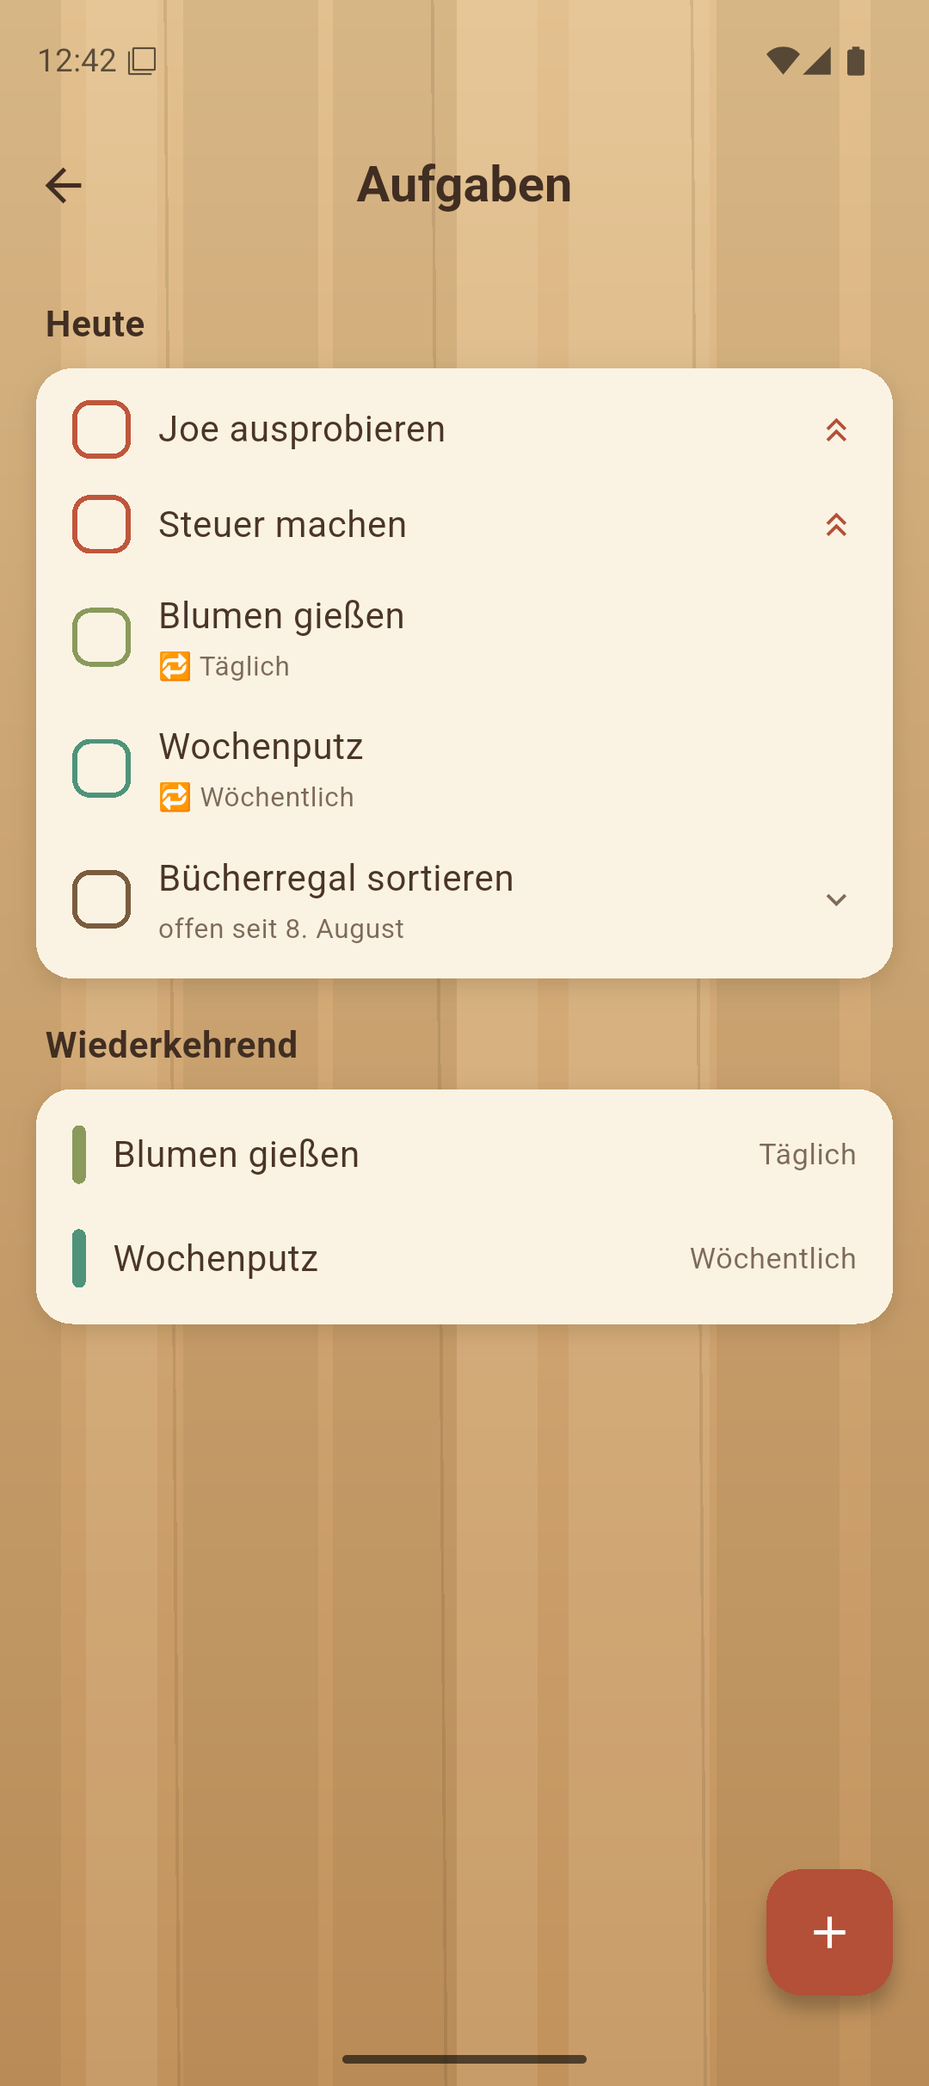
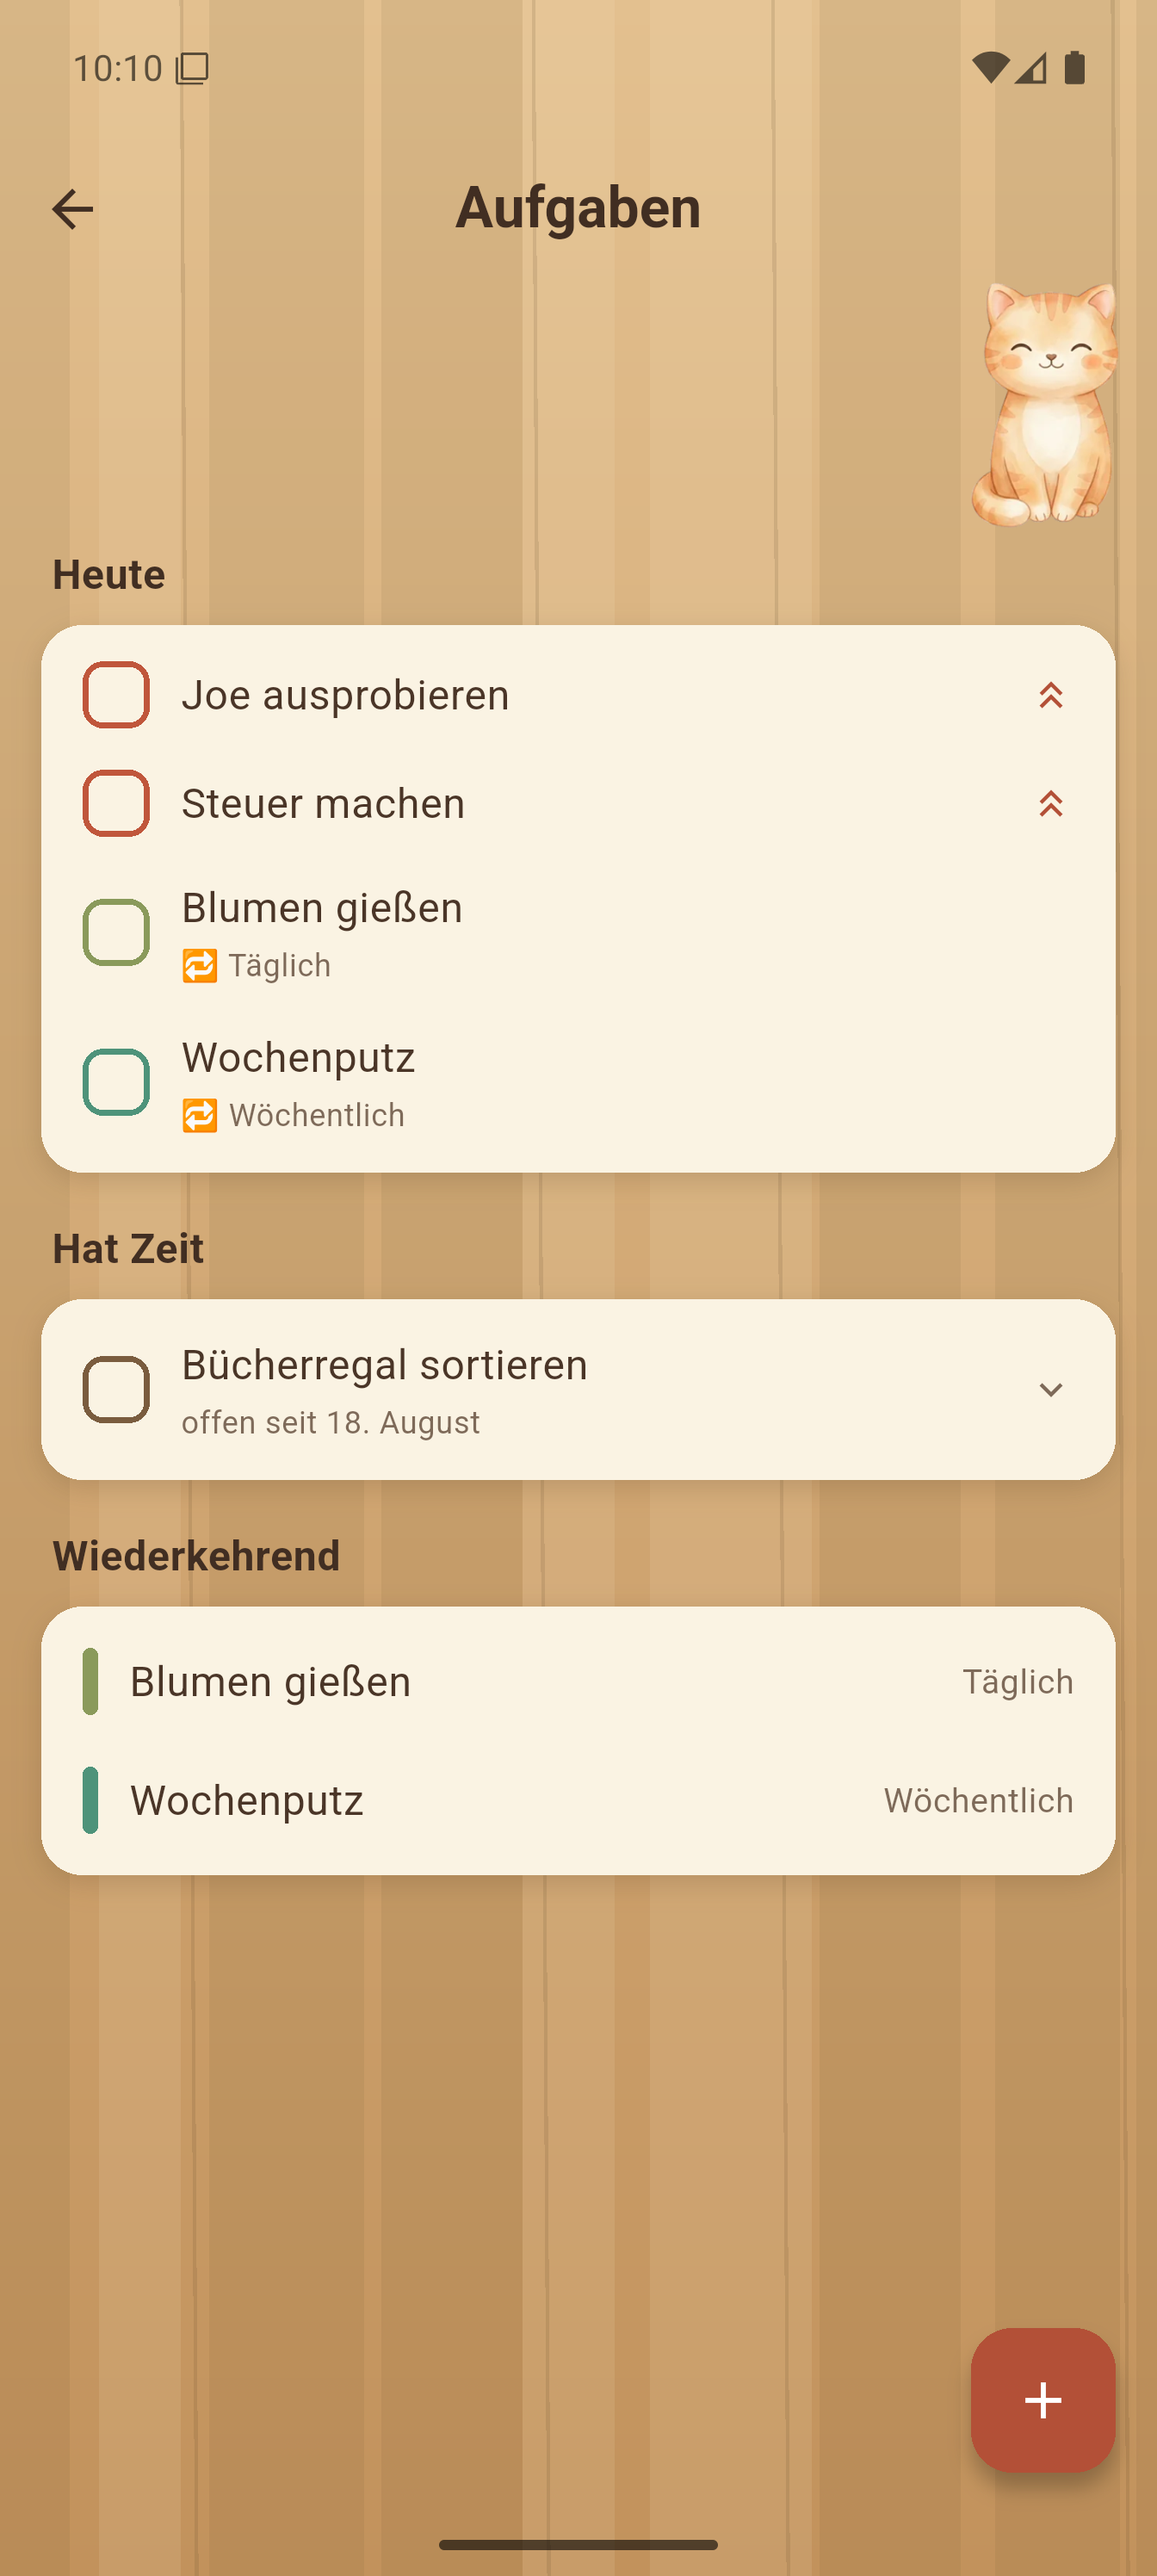
joe-todo: Stufe 3 zaehlt nur an ihrem Faelligkeitstag mit
Stufe 3 ist die leise Prioritaet. Zaehlt sie dauerhaft in "x offene Aufgaben
heute" mit, waechst die Zahl mit jedem Tag, an dem man sie liegen laesst -
und genau davor sollen die Prioritaeten schuetzen. Zaehlt sie nie mit,
verschwindet sie auch an dem Tag, an dem sie faellig ist.

Also beides: an ihrem Faelligkeitstag zaehlt sie wie jede andere Aufgabe,
danach faellt sie aus der Kopfzahl und steht nur noch im Aufklapper unter
"Hat Zeit" (vorher "Kann warten" - der Name sagte, sie duerfe warten, nicht
dass sie schon wartet). Die Grenze zieht isLowLeftover, openLowTasks heisst
darum jetzt lowLeftoverTasks.

Das Homescreen-Widget hatte die Filterung nachgebaut und zieht mit, sonst
stuende dort eine andere Zahl als in der App.

Claude-Session: https://claude.ai/code/session_01GTTHh3KS7ZpoGwavN3S3nZ

diff --git a/software/joe-todo/app/lib/models.dart b/software/joe-todo/app/lib/models.dart
@@ -47,8 +47,9 @@ const taskPaletteNames = [
 enum RecurrenceType { none, daily, weekly, monthly, everyXDays }
 
 /// Three priority levels for tasks and appointments. Level 3 ("Niedrig") is
-/// the quiet one: those tasks stay out of the open-count on the dashboard and
-/// only show up inside the fold-out list.
+/// the quiet one: an ihrem Faelligkeitstag zaehlt sie mit wie jede andere,
+/// danach faellt sie aus "x offene Aufgaben heute" heraus und steht nur noch
+/// unter "Hat Zeit" (siehe [isLowLeftover]).
 enum Priority {
   hoch(1, 'Hoch'),
   mittel(2, 'Mittel'),
@@ -203,6 +204,25 @@ class Appointment {
         reminderLeadMinutes: leadMinutesFromJson(json['reminderLeadMinutes']),
       );
 }
+
+/// Ob [task] an [day] nur noch liegen *bleibt*: Stufe 3, deren
+/// Faelligkeitstag vorbei ist.
+///
+/// Das ist die Grenze, an der sich Stufe 3 vom Rest trennt. An ihrem
+/// Faelligkeitstag ist eine leise Aufgabe eine Aufgabe wie jede andere: sie
+/// steht unter "Heute abhaken" und zaehlt in "x offene Aufgaben heute". Erst
+/// danach faellt sie aus der Zahl heraus und wandert in den Block "Hat Zeit"
+/// – sie sollte an ihrem Tag erledigt sein, muss aber nicht, und eine Zahl,
+/// die von so etwas jeden Tag weiterwaechst, sagt bald nichts mehr.
+///
+/// Nur einmalige Aufgaben koennen liegenbleiben: eine wiederkehrende ist an
+/// einem Tag entweder faellig oder gar nicht dabei.
+///
+/// Steht hier und nicht im [AppState], weil die Startbildschirm-Widgets
+/// dieselbe Grenze fuer *jeden* Tag ihres Schnappschusses brauchen, nicht
+/// nur fuer heute (siehe home_widget.dart).
+bool isLowLeftover(Task task, DateTime day) =>
+    task.priority == Priority.niedrig && !task.occursOn(day);
 
 /// Eine Erinnerungs-Uhrzeit aus dem Bestand: alles, was keine gueltige
 /// Minute im Tag ist (fehlt, falscher Typ, ausserhalb 0–1439), heisst
@@ -450,8 +470,8 @@ class AppState extends ChangeNotifier {
         colorIndex: 0,
         priority: Priority.hoch,
       ),
-      // Stufe 3: zaehlt nicht in "offene Aufgaben heute" mit und steht nur
-      // im Ausklappmenue unter "Kann warten".
+      // Stufe 3, und ihr Faelligkeitstag ist vorbei: sie zaehlt nicht mehr
+      // in "offene Aufgaben heute" mit und steht unter "Hat Zeit".
       Task(
         id: nextId(),
         title: 'Bücherregal sortieren',
@@ -605,47 +625,34 @@ class AppState extends ChangeNotifier {
   static int _soonestFirst(Task a, Task b) =>
       a.startDate.compareTo(b.startDate);
 
-  /// Tasks for the dashboard "Heute abhaken" list, without the unimportant
-  /// ones – those get their own section further down, see [openLowTasks].
-  /// Open items first, then the ones already ticked off.
+  /// Tasks for the dashboard "Heute abhaken" list, without the level-3
+  /// leftovers – those get their own block underneath, see
+  /// [lowLeftoverTasks]. Open items first, then the ones already ticked off.
   List<Task> tasksDueToday() {
     final t = today();
-    return _dueToday()
-        .where((task) => task.priority != Priority.niedrig)
-        .toList()
+    return _dueToday().where((task) => !isLowLeftover(task, t)).toList()
       ..sort(_ordered([_openFirstOn(t), _importantFirst]));
   }
 
-  /// Open level-3 tasks, newest first. Sie stehen im Aufklapper auf einem
-  /// eigenen Block, zaehlen in [openTodayCount] aber ganz normal mit.
-  List<Task> openLowTasks() {
+  /// Die liegengebliebenen Stufe-3-Aufgaben, neuste zuerst – der Block
+  /// "Hat Zeit" unter "Heute abhaken" und auf dem Aufgaben-Reiter.
+  ///
+  /// Sie sind immer offen: liegenbleiben kann nur eine einmalige Aufgabe,
+  /// die noch niemand abgehakt hat.
+  List<Task> lowLeftoverTasks() {
     final t = today();
-    return _dueToday()
-        .where((task) =>
-            task.priority == Priority.niedrig && !task.isCompletedOn(t))
-        .toList()
+    return _dueToday().where((task) => isLowLeftover(task, t)).toList()
       ..sort(_ordered([_newestFirst]));
   }
 
-  /// Was heute noch offen auf dem Teller liegt. Stufe 3 zaehlt mit: sie ist
-  /// heute genauso faellig wie der Rest, nur weiter unten einsortiert.
+  /// Was heute noch offen auf dem Teller liegt. Stufe 3 zaehlt an ihrem
+  /// Faelligkeitstag mit – da ist sie so faellig wie alles andere –, danach
+  /// nicht mehr (siehe [isLowLeftover]).
   int openTodayCount() {
     final t = today();
-    return _dueToday().where((task) => !task.isCompletedOn(t)).length;
-  }
-
-  // ---- Sections of the tasks screen ----
-
-  /// Level-3 tasks due today for the "Kann warten" block on the tasks screen.
-  /// Open first and inside that newest first, like in the dashboard fold-out.
-  /// Unlike the dashboard this keeps the ticked ones: the tasks screen is the
-  /// one place where a recurring level-3 tick can be taken back again.
-  List<Task> lowTasksToday() {
-    final t = today();
     return _dueToday()
-        .where((task) => task.priority == Priority.niedrig)
-        .toList()
-      ..sort(_ordered([_openFirstOn(t), _newestFirst]));
+        .where((task) => !task.isCompletedOn(t) && !isLowLeftover(task, t))
+        .length;
   }
 
   /// One-off tasks dated after today, soonest first.

diff --git a/software/joe-todo/app/test/models_test.dart b/software/joe-todo/app/test/models_test.dart
@@ -110,7 +110,7 @@ void main() {
       expect(appointment.priority, Priority.mittel);
     });
 
-    test('Stufe 3 zählt in "offene Aufgaben heute" mit', () {
+    test('Stufe 3 zählt an ihrem Faelligkeitstag mit', () {
       final t = today();
       final state = stateWith(tasks: [
         Task(id: '1', title: 'Wichtig', startDate: t, priority: Priority.hoch),
@@ -121,11 +121,59 @@ void main() {
             startDate: t,
             priority: Priority.niedrig),
       ]);
-      // Die Zahl nennt alles, was heute faellig und offen ist; die Trennung
-      // in zwei Bloecke ist nur eine der Anzeige.
+      // Heute ist sie faellig wie jede andere: sie zaehlt mit und steht in
+      // derselben Liste, nur hinter den wichtigeren.
       expect(state.openTodayCount(), 3);
-      expect(state.tasksDueToday().map((x) => x.id), ['1', '2']);
-      expect(state.openLowTasks().map((x) => x.id), ['3']);
+      expect(state.tasksDueToday().map((x) => x.id), ['1', '2', '3']);
+      expect(state.lowLeftoverTasks(), isEmpty);
+    });
+
+    test('danach faellt sie aus der Zahl und wandert in "Hat Zeit"', () {
+      final t = today();
+      final state = stateWith(tasks: [
+        Task(id: '2', title: 'Normal', startDate: t),
+        Task(
+          id: '3',
+          title: 'Unwichtig',
+          startDate: t.subtract(const Duration(days: 1)),
+          priority: Priority.niedrig,
+        ),
+      ]);
+      // Gestern hat sie noch gezaehlt, heute nicht mehr – sonst waechst die
+      // Zahl von etwas weiter, das ausdruecklich Zeit hat.
+      expect(state.openTodayCount(), 1);
+      expect(state.tasksDueToday().map((x) => x.id), ['2']);
+      expect(state.lowLeftoverTasks().map((x) => x.id), ['3']);
+    });
+
+    test('eine ueberfaellige Aufgabe anderer Stufen zaehlt weiter mit', () {
+      final t = today();
+      final state = stateWith(tasks: [
+        Task(
+          id: 'gestern',
+          title: 'Liegengeblieben',
+          startDate: t.subtract(const Duration(days: 1)),
+        ),
+      ]);
+      expect(state.openTodayCount(), 1);
+      expect(state.tasksDueToday().map((x) => x.id), ['gestern']);
+    });
+
+    test('eine wiederkehrende Stufe 3 zaehlt an jedem ihrer Tage', () {
+      final t = today();
+      final state = stateWith(tasks: [
+        Task(
+          id: 'taeglich',
+          title: 'Leise, aber taeglich',
+          recurrence: RecurrenceType.daily,
+          startDate: t.subtract(const Duration(days: 10)),
+          priority: Priority.niedrig,
+        ),
+      ]);
+      // Eine wiederkehrende Aufgabe bleibt nie liegen: heute ist sie faellig
+      // oder gar nicht dabei.
+      expect(state.openTodayCount(), 1);
+      expect(state.lowLeftoverTasks(), isEmpty);
     });
 
     test('Stufe 3 faellt aus der Zahl, sobald sie abgehakt ist', () {
@@ -141,7 +189,7 @@ void main() {
       expect(state.openTodayCount(), 1);
     });
 
-    test('offene Stufe-3-Aufgaben kommen neuste zuerst', () {
+    test('liegengebliebene Stufe-3-Aufgaben kommen neuste zuerst', () {
       final t = today();
       final state = stateWith(tasks: [
         Task(
@@ -163,10 +211,13 @@ void main() {
           priority: Priority.niedrig,
         ),
       ]);
-      expect(state.openLowTasks().map((x) => x.id), ['neu', 'mittig', 'alt']);
+      expect(
+        state.lowLeftoverTasks().map((x) => x.id),
+        ['neu', 'mittig', 'alt'],
+      );
     });
 
-    test('Aufgaben-Reiter haelt Stufe 3 aus "Heute" heraus', () {
+    test('nur das Liegengebliebene trennt sich von "Heute"', () {
       final t = today();
       final done = Task(
         id: 'erledigt',
@@ -192,24 +243,27 @@ void main() {
         ),
         done,
       ]);
-      expect(state.tasksDueToday().map((x) => x.id), ['normal']);
-      // Offen zuerst und darin neuste zuerst, Abgehaktes bleibt am Ende
-      // stehen – nur hier laesst sich ein Haken zurueckziehen.
+      // Heute faellig – die leise von heute und die abgehakte wiederkehrende
+      // stehen mit unter "Heute", die abgehakte am Ende: nur dort laesst
+      // sich ein Haken zurueckziehen.
       expect(
-        state.lowTasksToday().map((x) => x.id),
-        ['neu', 'alt', 'erledigt'],
+        state.tasksDueToday().map((x) => x.id),
+        ['normal', 'neu', 'erledigt'],
       );
+      expect(state.lowLeftoverTasks().map((x) => x.id), ['alt']);
     });
 
-    test('abgehakte Stufe-3-Aufgaben verschwinden aus der Liste', () {
+    test('abgehakte Stufe-3-Aufgaben fallen aus der Zahl', () {
       final t = today();
       final task = Task(
           id: '1', title: 'Unwichtig', startDate: t, priority: Priority.niedrig);
       final state = stateWith(tasks: [task]);
-      expect(state.openLowTasks(), hasLength(1));
+      expect(state.openTodayCount(), 1);
       task.completedDates.add(dateKey(t));
-      expect(state.openLowTasks(), isEmpty);
       expect(state.openTodayCount(), 0);
+      // Abgehakt bleibt sie stehen, damit der Haken zurueckgenommen werden
+      // kann – sie zaehlt nur nicht mehr.
+      expect(state.tasksDueToday(), hasLength(1));
     });
   });
 

diff --git a/software/joe-todo/app/test/tasks_test.dart b/software/joe-todo/app/test/tasks_test.dart
@@ -27,7 +27,7 @@ Future<AppState> pumpTasks(WidgetTester tester, List<Task> tasks) async {
 }
 
 void main() {
-  testWidgets('Stufe 3 steht unter "Kann warten", nicht unter "Heute"',
+  testWidgets('liegengebliebene Stufe 3 steht unter "Hat Zeit"',
       (tester) async {
     final t = today();
     await pumpTasks(tester, [
@@ -43,11 +43,11 @@ void main() {
     double y(String label) => tester.getTopLeft(find.text(label)).dy;
 
     expect(find.text('Heute'), findsOneWidget);
-    expect(find.text('Kann warten'), findsOneWidget);
-    // Reihenfolge auf dem Blatt: Heute > Normal > Kann warten > Unwichtig.
+    expect(find.text('Hat Zeit'), findsOneWidget);
+    // Reihenfolge auf dem Blatt: Heute > Normal > Hat Zeit > Unwichtig.
     expect(y('Heute'), lessThan(y('Normal')));
-    expect(y('Normal'), lessThan(y('Kann warten')));
-    expect(y('Kann warten'), lessThan(y('Unwichtig')));
+    expect(y('Normal'), lessThan(y('Hat Zeit')));
+    expect(y('Hat Zeit'), lessThan(y('Unwichtig')));
     expect(
       find.text('offen seit ${formatDate(t.subtract(const Duration(days: 4)))}'),
       findsOneWidget,
@@ -60,6 +60,21 @@ void main() {
     ]);
 
     expect(find.text('Heute'), findsOneWidget);
-    expect(find.text('Kann warten'), findsNothing);
+    expect(find.text('Hat Zeit'), findsNothing);
+  });
+
+  testWidgets('an ihrem Faelligkeitstag steht Stufe 3 unter "Heute"',
+      (tester) async {
+    final t = today();
+    await pumpTasks(tester, [
+      Task(id: '1', title: 'Normal', startDate: t),
+      Task(id: '2', title: 'Leise', startDate: t, priority: Priority.niedrig),
+    ]);
+
+    // Heute ist sie eine Aufgabe wie jede andere; der eigene Block kommt
+    // erst, wenn sie liegengeblieben ist.
+    expect(find.text('Heute'), findsOneWidget);
+    expect(find.text('Hat Zeit'), findsNothing);
+    expect(find.text('Leise'), findsOneWidget);
   });
 }

diff --git a/software/joe-todo/app/lib/screens/tasks.dart b/software/joe-todo/app/lib/screens/tasks.dart
@@ -15,16 +15,22 @@ class TasksScreen extends StatelessWidget {
     final theme = joeThemeOf(context);
     final t = today();
     final todayTasks = state.tasksDueToday();
-    final lowToday = state.lowTasksToday();
+    final lowLeftovers = state.lowLeftoverTasks();
     final upcoming = state.upcomingTasks();
     final recurring = state.recurringTasks();
     final done = state.doneTasks();
 
+    const page = PetPage.tasks;
     return JoeScaffold(
+      page: page,
       title: 'Aufgaben',
       body: SafeArea(
         child: ListView(
-          padding: const EdgeInsets.fromLTRB(16, 4, 16, 96),
+          padding: petPadding(
+            context,
+            page,
+            const EdgeInsets.fromLTRB(16, 4, 16, 96),
+          ),
           children: [
             if (state.tasks.isEmpty)
               PaperCard(
@@ -42,14 +48,15 @@ class TasksScreen extends StatelessWidget {
                 ],
               ),
             ],
-            // Stufe 3 steht auch hier fuer sich: sie zaehlt nirgends in
-            // "heute faellig" mit, sonst waere der Reiter wieder die Liste,
-            // vor der die Prioritaeten schuetzen sollen.
-            if (lowToday.isNotEmpty) ...[
-              const SectionTitle('Kann warten'),
+            // Liegengebliebene Stufe 3 steht hier fuer sich – an ihrem
+            // Faelligkeitstag stand sie noch oben unter "Heute" und zaehlte
+            // ganz normal mit. Erst danach zieht sie hierher um, wo sie
+            // niemanden mehr draengt.
+            if (lowLeftovers.isNotEmpty) ...[
+              const SectionTitle('Hat Zeit'),
               _TaskCard(
                 children: [
-                  for (final task in lowToday)
+                  for (final task in lowLeftovers)
                     TaskTile(task: task, day: t, showOverdue: true),
                 ],
               ),

diff --git a/software/joe-todo/app/test/home_widget_test.dart b/software/joe-todo/app/test/home_widget_test.dart
@@ -113,7 +113,7 @@ void main() {
       expect(tasks.first['color'], matches(r'^#[0-9a-f]{8}$'));
     });
 
-    test('zaehlt offene Aufgaben wie das Dashboard, Stufe 3 eingeschlossen', () {
+    test('zaehlt wie das Dashboard: Stufe 3 nur am Faelligkeitstag', () {
       final state = stateWith(
         tasks: [
           Task(
@@ -130,12 +130,23 @@ void main() {
           ),
         ],
       );
-      final day = dayOf(snapshotOf(state), heute)!;
+      final snapshot = snapshotOf(state);
+
+      final day = dayOf(snapshot, heute)!;
       expect(day['open'], 2);
       expect(day['taskCount'], 2);
-      // Die leise Aufgabe zaehlt mit, steht in der Liste aber ganz unten.
+      // Die leise Aufgabe zaehlt an ihrem Tag mit, steht in der Liste aber
+      // ganz unten.
       expect((day['tasks'] as List).last['title'], 'Leise');
-      expect(day['open'], state.openTodayCount());
+
+      // Am Tag darauf liegen beide noch da – aber die leise draengt nicht
+      // mehr und faellt aus der Zahl. Die Widgets muessen dieselbe Zahl
+      // zeigen wie die App, sonst widersprechen sie sich auf demselben
+      // Bildschirm.
+      final morgen = dayOf(snapshot, heute.add(const Duration(days: 1)))!;
+      expect(morgen['taskCount'], 2);
+      expect(morgen['open'], 1);
+      expect((morgen['tasks'] as List).map((t) => t['low']), [false, true]);
     });
 
     test('nimmt Termine mit Uhrzeit als Minute im Tag', () {

diff --git a/software/joe-todo/app/lib/home_widget.dart b/software/joe-todo/app/lib/home_widget.dart
@@ -142,8 +142,12 @@ Map<String, dynamic> buildWidgetSnapshot(AppState state, {DateTime? now}) {
       ],
       'taskCount': tasks.length,
       // Die Kopfzeile zaehlt wie das Dashboard: alles, was an dem Tag offen
-      // ist – Stufe 3 eingeschlossen.
-      'open': tasks.where((t) => !t.isCompletedOn(d)).length,
+      // ist – Stufe 3 nur an ihrem Faelligkeitstag, danach nicht mehr
+      // (siehe isLowLeftover). Sonst stuende im Widget eine andere Zahl als
+      // in der App.
+      'open': tasks
+          .where((t) => !t.isCompletedOn(d) && !isLowLeftover(t, d))
+          .length,
       'appointments': [
         for (final a in appointments.take(widgetEntriesPerDay))
           {
